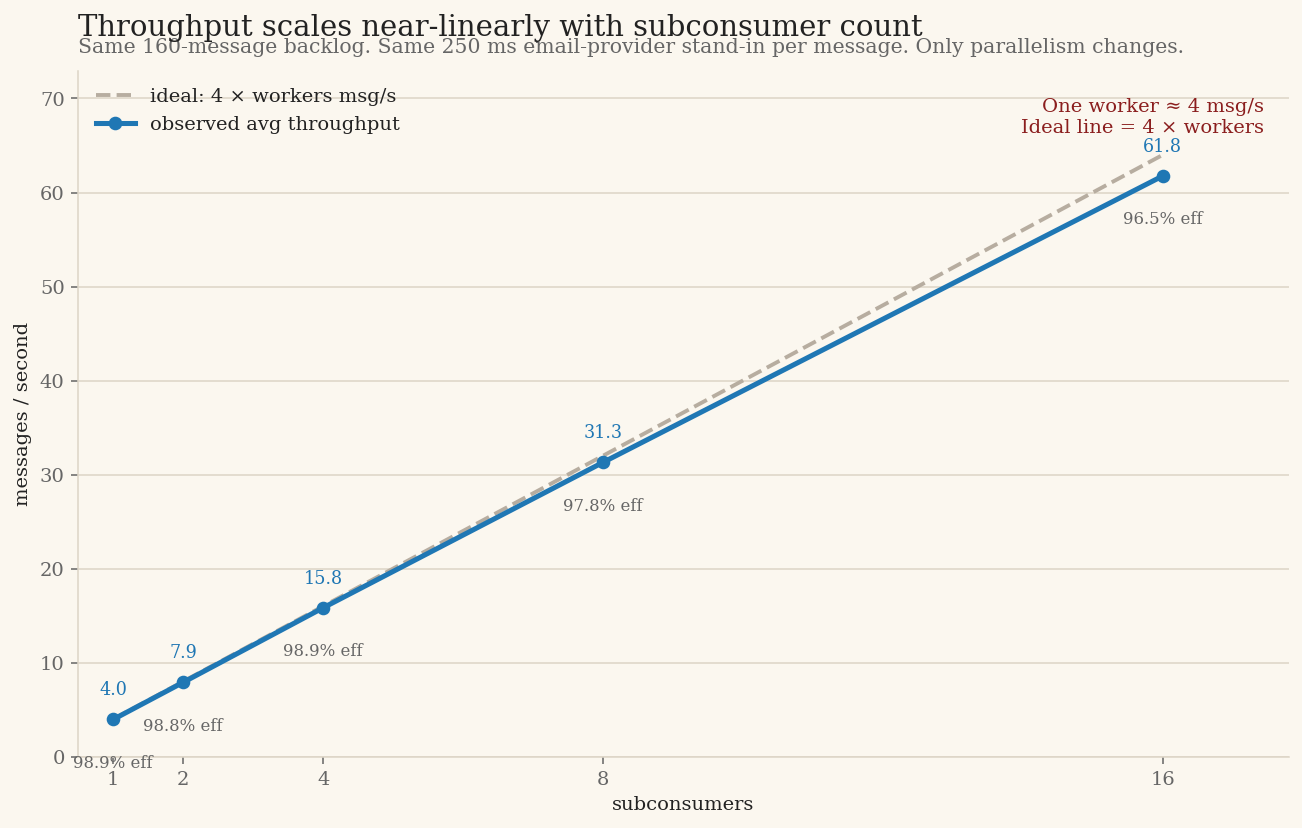
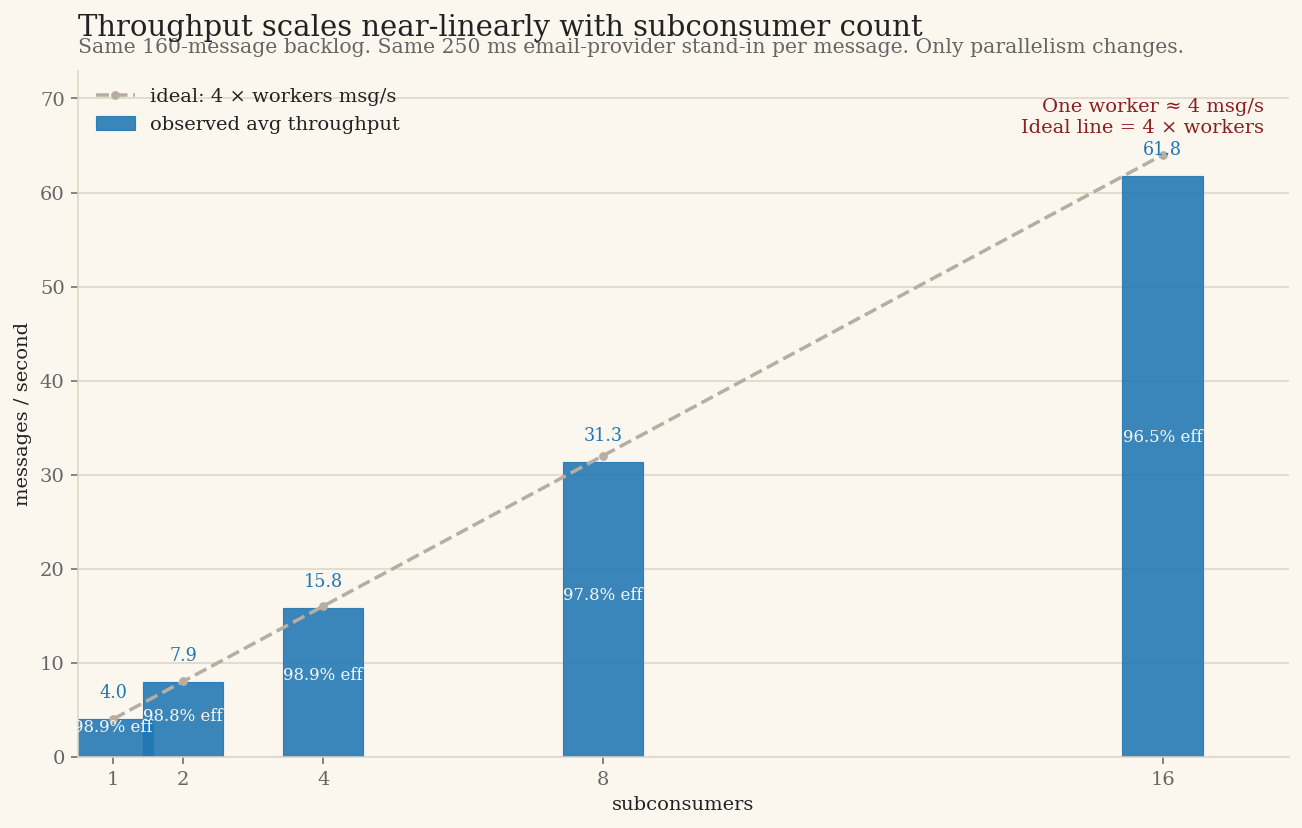
docs: use bars in throughput scaling chart

diff --git a/benchmark/subconsumer-scaling/scaling_linearity.py b/benchmark/subconsumer-scaling/scaling_linearity.py
@@ -56,13 +56,14 @@ def main() -> int:
     ax.grid(axis='y', color=GRID, linewidth=0.8)
     ax.set_axisbelow(True)
 
-    ax.plot(workers, ideal, color=IDEAL, linewidth=2.0, linestyle='--', label='ideal: 4 × workers msg/s')
-    ax.plot(workers, observed, color=OBS, linewidth=2.6, marker='o', markersize=6,
-            label='observed avg throughput')
+    bars = ax.bar(workers, observed, width=1.15, color=OBS, alpha=0.88,
+                  edgecolor=OBS, linewidth=0.6, label='observed avg throughput')
+    ax.plot(workers, ideal, color=IDEAL, linewidth=1.8, linestyle='--',
+            marker='o', markersize=3.5, zorder=3, label='ideal: 4 × workers msg/s')
 
-    for x, y, e in zip(workers, observed, efficiency):
-        ax.text(x, y + max(observed) * 0.035, f'{y:.1f}', ha='center', va='bottom', color=OBS, fontsize=9)
-        ax.text(x, y - max(observed) * 0.06, f'{e*100:.1f}% eff', ha='center', va='top', color=DIM, fontsize=8.5)
+    for bar, x, y, e in zip(bars, workers, observed, efficiency):
+        ax.text(x, y + max(observed) * 0.03, f'{y:.1f}', ha='center', va='bottom', color=OBS, fontsize=9)
+        ax.text(x, max(y * 0.55, max(observed) * 0.05), f'{e*100:.1f}% eff', ha='center', va='center', color=BG, fontsize=8.5)
 
     ax.set_xlim(min(workers) - 0.5, max(workers) + 1.8)
     ax.set_ylim(0, max(ideal) * 1.14)